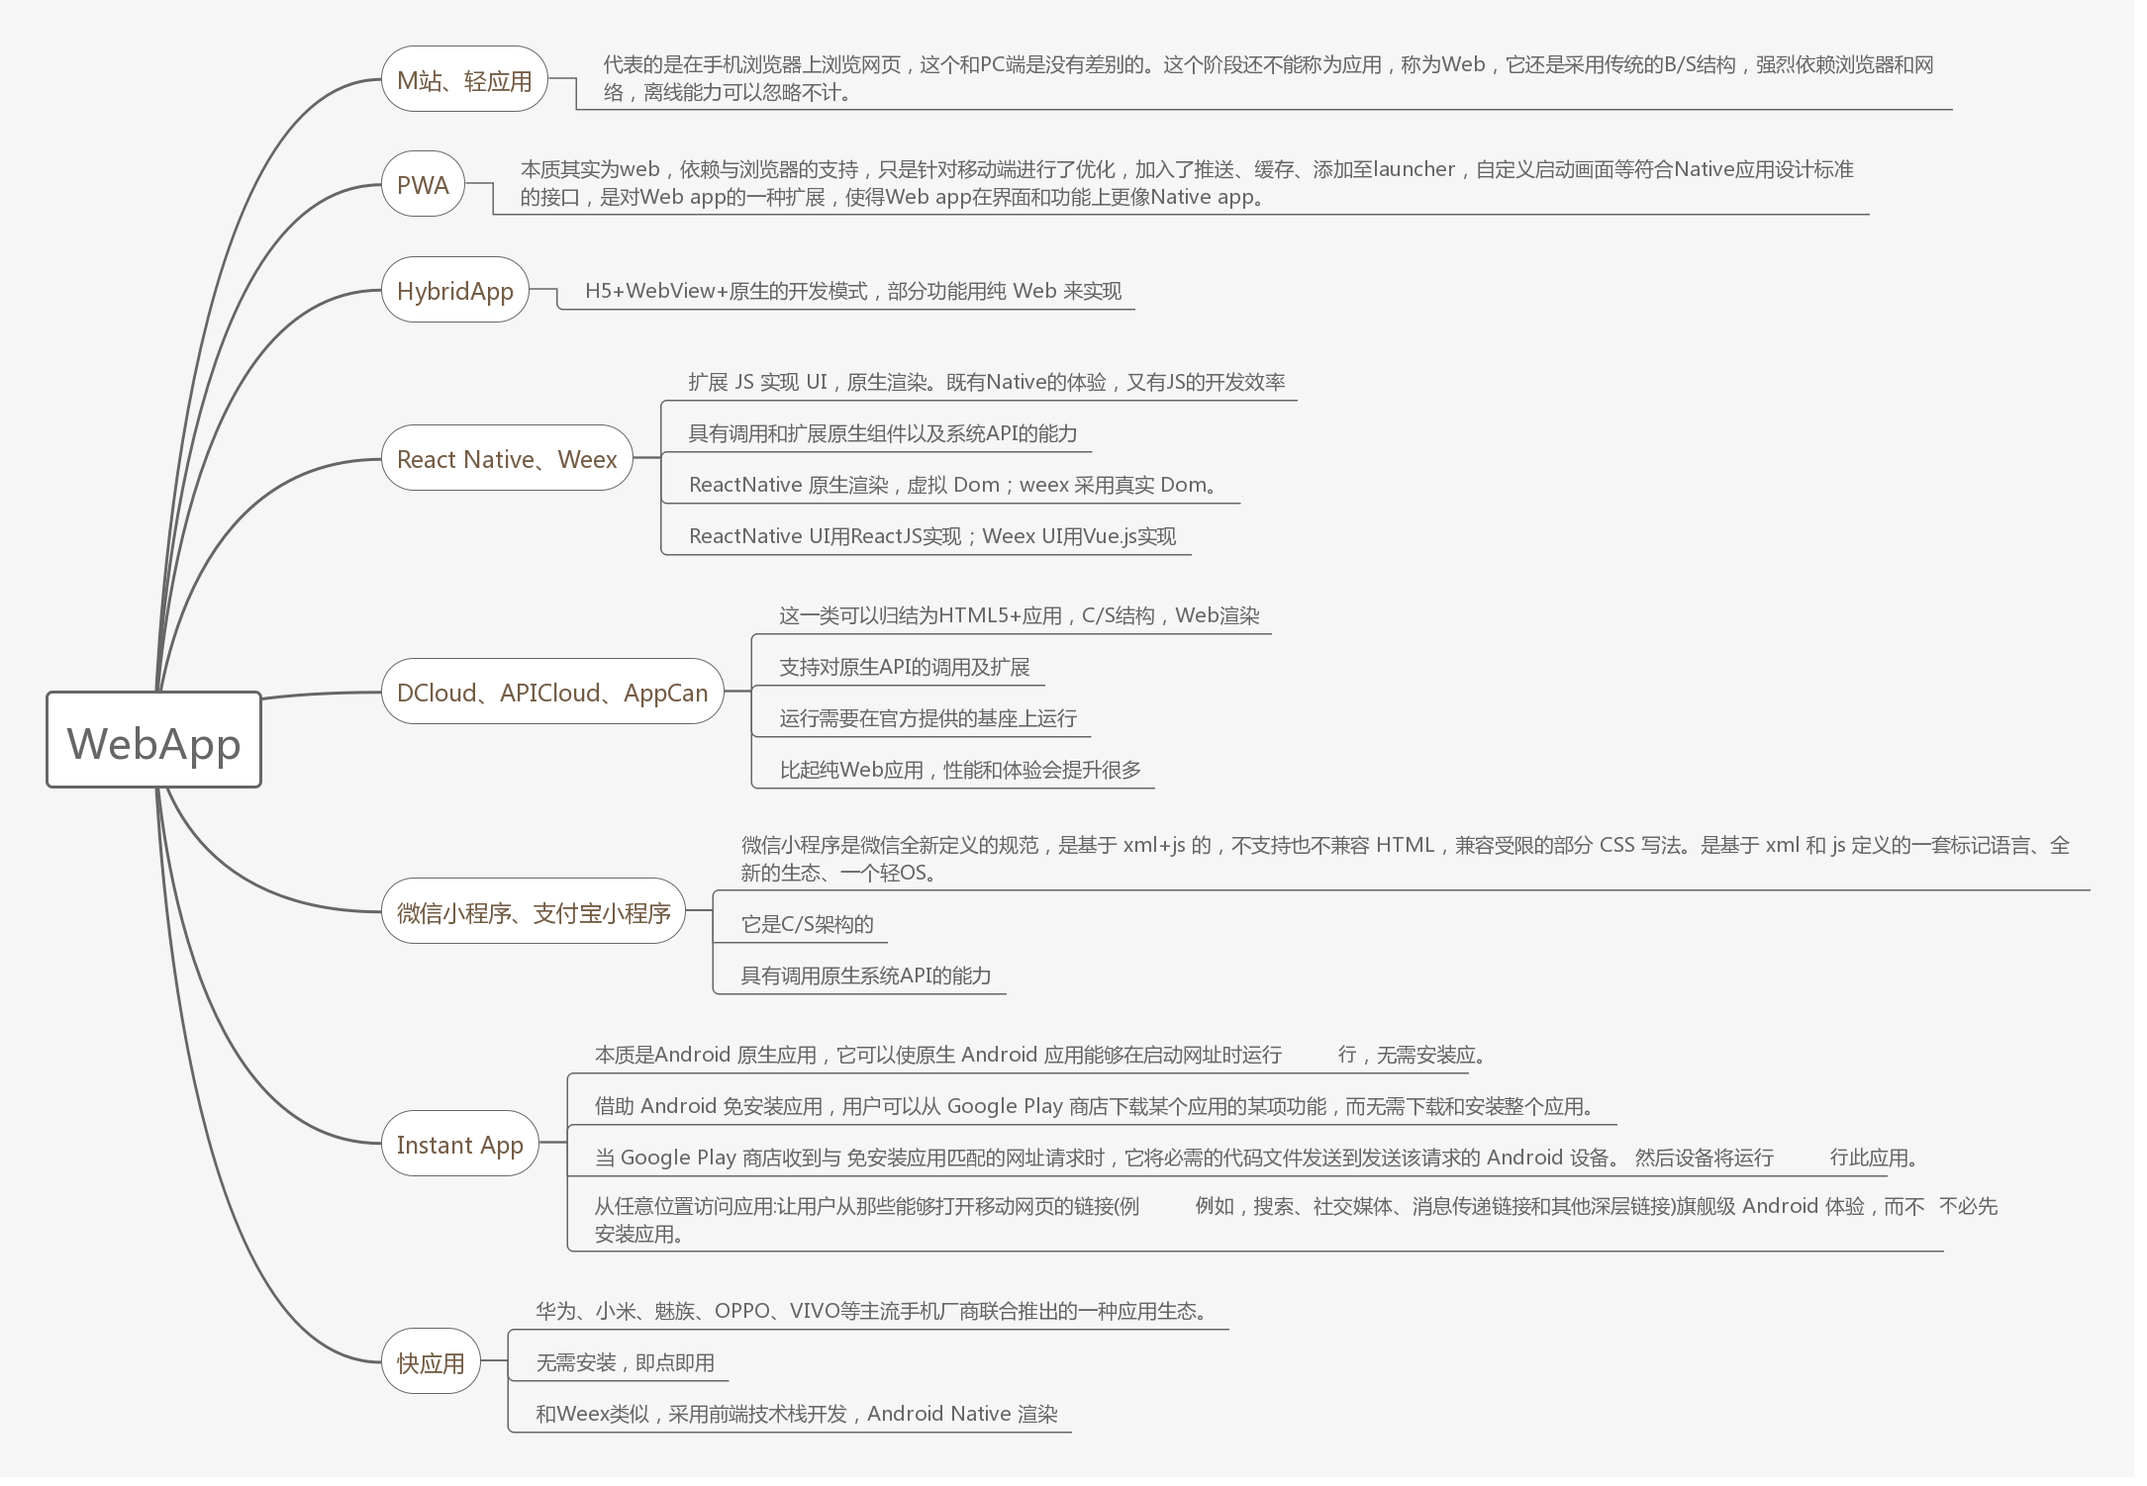
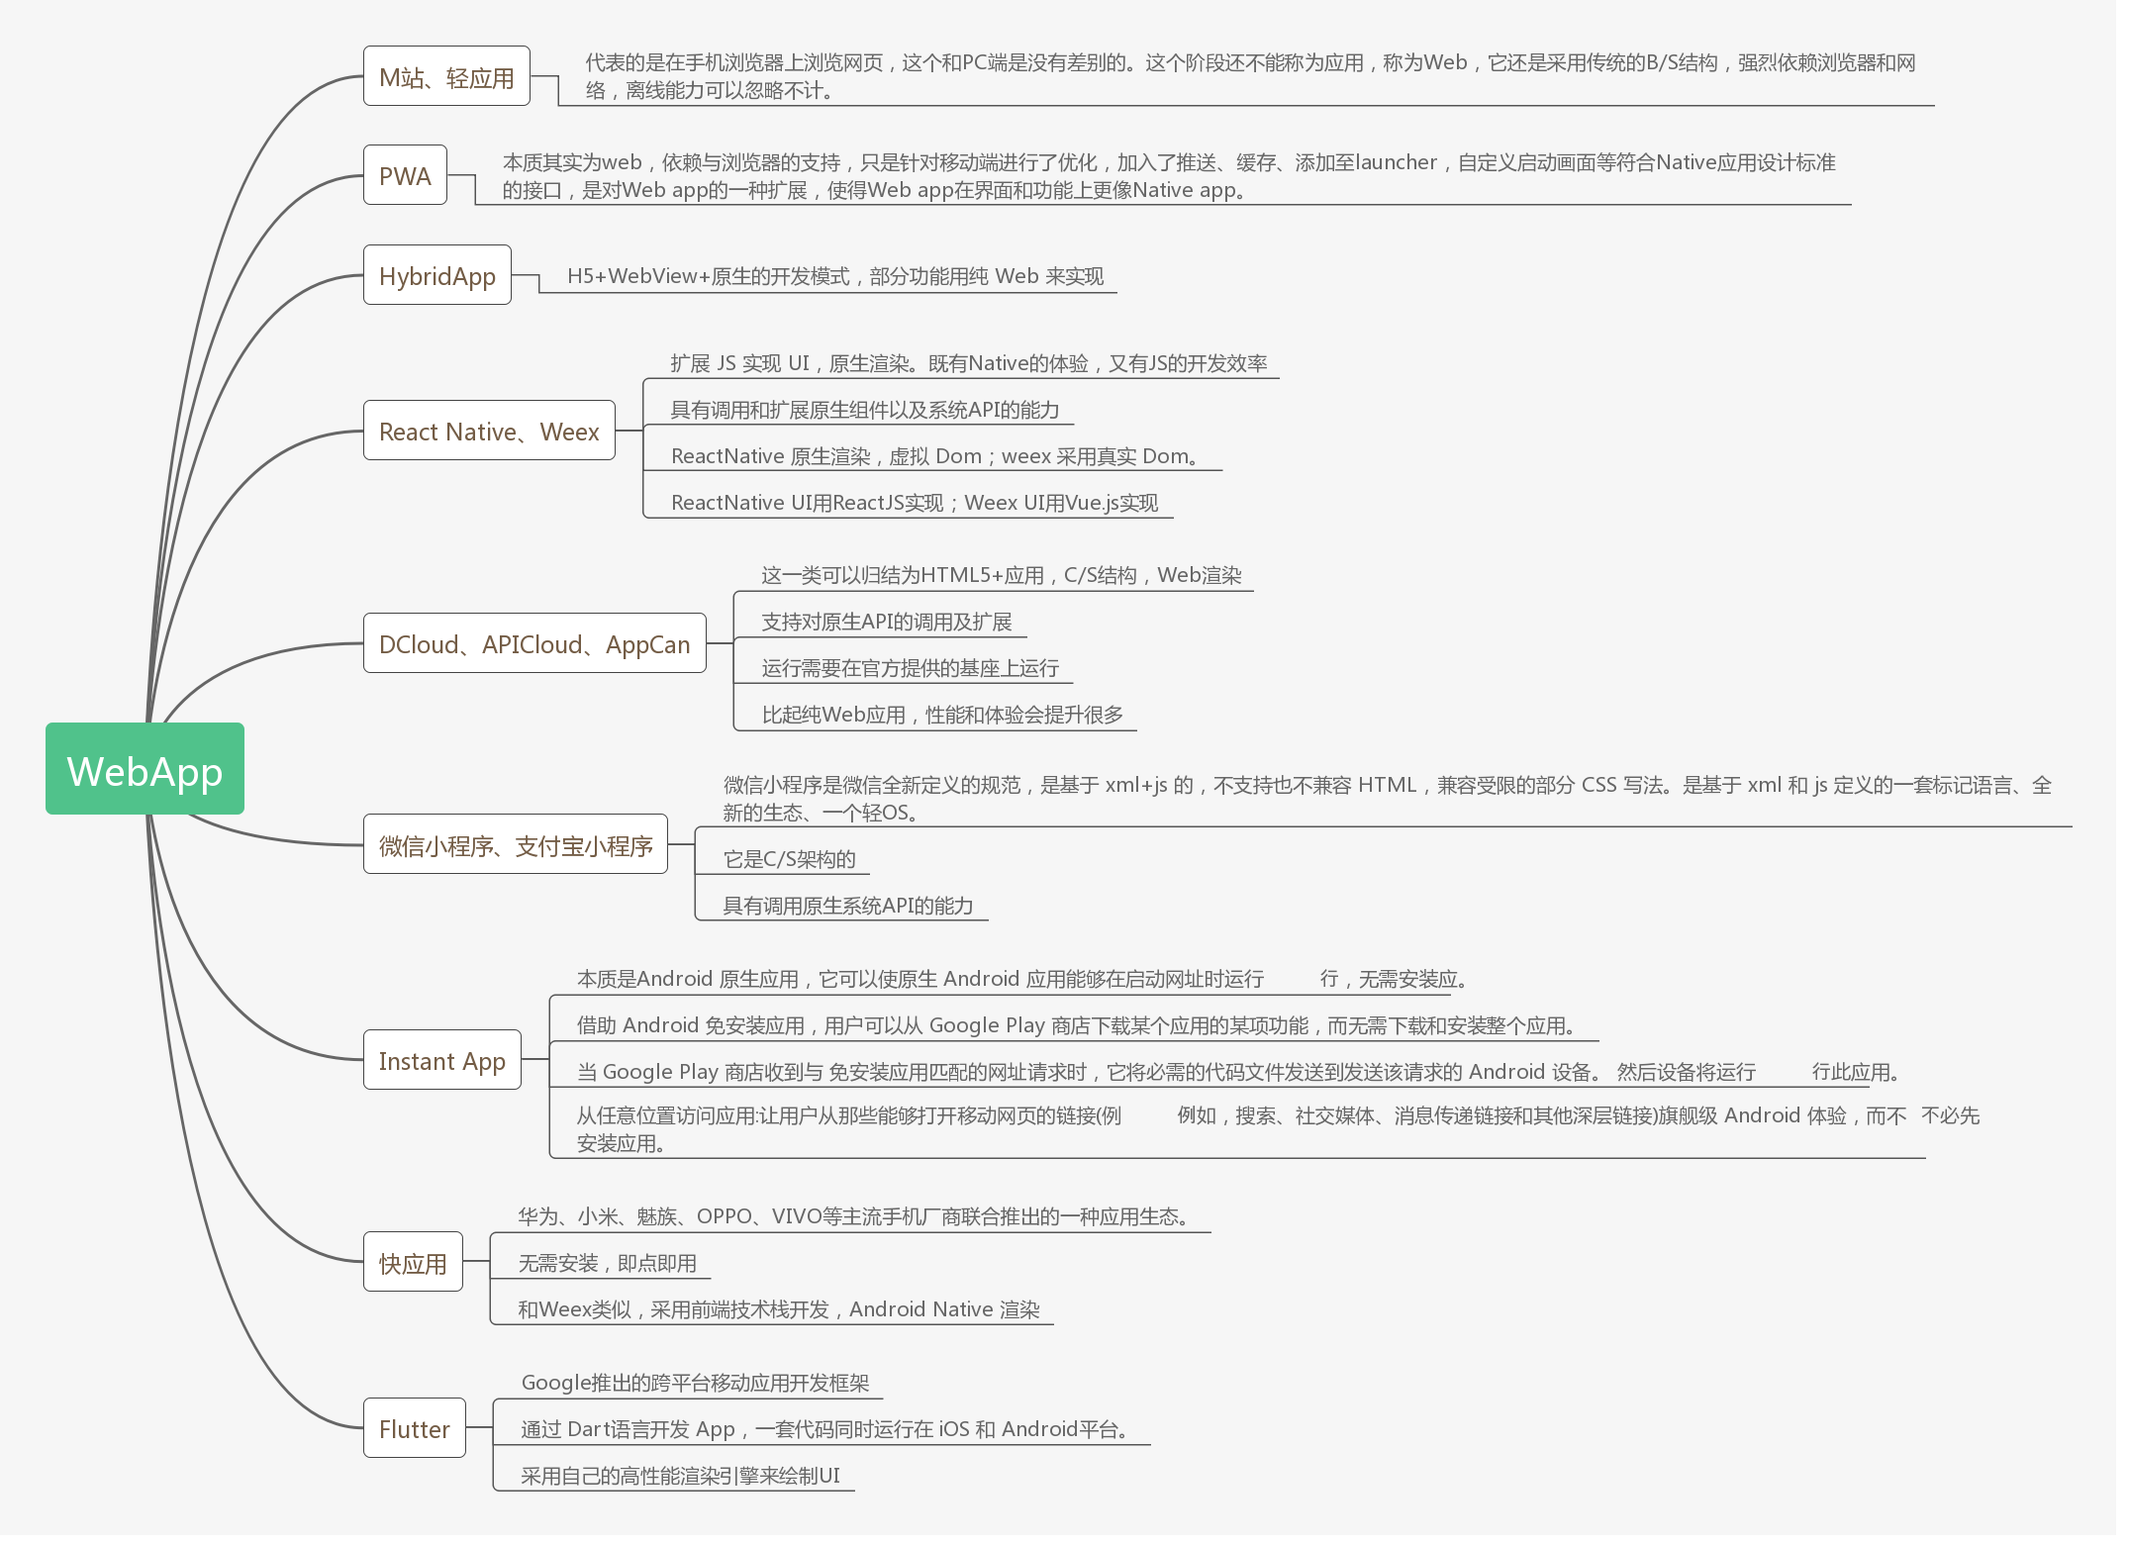
add blogs

diff --git a/source/_posts/javascript-basic-promise.md b/source/_posts/javascript-basic-promise.md
@@ -1,0 +1,238 @@
+---
+title: JavaScript 基础 -- Promise
+categories: JavaScript
+comments: true
+tags: [JavaScript]
+description: 介绍 Promise 的使用
+date: 2018-5-12 10:00:00
+---
+
+## 概述
+
+Promise 是从 ES6 开始提供的异步编程解决方案，在此之前需要使用回调函数和事件的方式来完成。Promise 比传统的回调函数和事件更合理和强大。
+
+## 特点
+
+ - Promise 对象一旦创建就会立即执行，不管有没有then函数来处理执行结果
+
+## 基本用法
+
+我们先来看一下 Promise 对象的创建方法：
+
+```
+      var promise = new Promise(function(resolve,reject){
+        if(sucess) {
+          resolve(value)
+        } else {
+          reject(error)
+        }
+      })
+```
+
+Promise构造函数接收一个函数作为参数，该函数有两个参数分别是resolve和reject，他们是两个函数，由Javascript引擎提供，不用自己部署。
+resolve方法的作用是在异步操作成功时调用，并将异步操作的结果作为参数传递到下游进行处理。
+reject方法的作用是在异步操作失败时调用，并将异步操作报出的错误作为参数传递到下游进行处理。
+Promise实例生成以后，可以用then方法分别指定resolved状态和rejected状态的回调函数。
+
+```
+      promise.then(function(value){
+        // do success
+      },function(error){
+        // do error
+      })
+```
+
+then方法可以接受两个回调函数作为参数，第一个回调函数是异步操作执行成功时调用，第二个回调函数是异步操作执行失败时调用。其中，第二个函数是可选的，不一定要提供，这两个函数都接受Promise对象传出的值作为参数。
+下面介绍一个简单的例子：
+
+```
+    testPromise() {
+      console.log("##start")
+      
+      new Promise((resolve, reject) => {
+        setTimeout(function() {
+          console.log('do something')
+          resolve({usetime:100,status:1})
+          //reject('time out')
+        },500)
+      }).then((value) => {
+          console.log('done, value='+JSON.stringify(value))
+        },(error) => {
+          console.log('reason='+error)
+      })
+      
+      console.log("##end")
+    }
+```
+
+resolve 还可以是一个 Promise 实例，在这种个情况下，两个 Promise 并行执行，后一个 Promise 的 resolve 方法将前一个 Promise 作为参数，也就是后一个的操作结果是前一个异步操作。
+
+```
+    testPromise() {
+      console.log("##start")
+
+      const promise1 =  new Promise((resolve, reject) => {
+        console.log('the first stage')
+        setTimeout(function() {
+          console.log('the first stage done')
+          resolve({usetime:100,status:1})
+          //reject("time out")
+        },1000)
+      })
+      const promise2 = new Promise((resolve,reject) => {
+        console.log('the second stage')
+        setTimeout(function() {
+          console.log('the second stage done')
+          resolve(promise1)
+        },500)
+      })
+
+      promise2.then((value) => {
+        console.log('done, value='+JSON.stringify(value))
+      },(error) => {
+        console.log('fail, error='+JSON.stringify(error))
+      })
+
+      console.log("##end")
+    }
+```
+
+注意，这时 promise1 的状态就会传递给 promise2，也就是说，promise1的状态决定了 promise2 的状态。如果 promise1 的状态是未执行完状态，那么promise2的回调函数就会等待 promise1 的状态改变；如果 promise1 的状态已经是 resolved或者 rejected，那么 promise2 的回调函数将会立刻执行。
+
+## then 方法
+
+语法：`Promise.prototype.then(onFulfilled, onRejected);`
+
+ - onFulfilled:当前实例变成fulfilled状态时，该参数作为回调函数被调用
+ - onRejected:当前实例变成reject状态时，该参数作为回调函数被调用。
+
+then 方法返回的是一个新的 Promise 对象，那么基于这样的特性，我们可以很方便的采用链式操作，也就是 then 方法后面再接着调用 then 方法，第一个回调函数完成以后，会将返回结果作为参数，传入第二个回调函数：
+
+```
+    testPromise() {
+      console.log("##start")
+
+      const promise1 =  new Promise((resolve, reject) => {
+        console.log('the first stage')
+        setTimeout(function() {
+          console.log('the first stage done')
+          resolve({usetime:100,status:1})
+        },1000)
+      })
+
+      promise1.then((value) => {
+        console.log('done 1, value='+JSON.stringify(value))
+        return "stage 2"
+      },(error) => {
+        console.log('fail, error='+JSON.stringify(error))
+      }).then((value) => {
+        console.log('done 2, value='+JSON.stringify(value))
+      })
+
+      console.log("##end")
+    }
+```
+
+有时我们有这样的使用场景：多个 Promise 异步操作配合使用，后一个需要等待前一个异步操作的执行结果。
+下面可以用下面方式实现：
+
+```
+    testPromise() {
+      console.log("##start")
+      
+      new Promise((resolve, reject) => {
+        setTimeout(function() {
+          console.log('the first stage')
+          resolve({usetime:100,status:1})
+        },500)
+      }).then((value) => {
+        console.log('the first stage done, value='+JSON.stringify(value))
+        return new Promise((resolve,reject) => {
+          setTimeout(function() {
+            console.log('the second stage')
+            resolve({usetime:200,status:1})
+          },500)
+        })
+      }).then((value) =>{
+        console.log('the second stage done, value='+JSON.stringify(value))
+      })
+      
+      console.log("##end")
+    }
+```
+
+这种方法的两个 Promise 是串行执行，后一个 Promise 的执行需要依赖前一个 Promise 的执行结果。后面一个 then 方法的value是第二个 Promise resolve 方法传递的结果。
+
+如果想实现两个返回 Promise 方法的链式操作的话，要这样写：
+
+```
+  testPromise() {
+    console.log("##11start")
+    var root = this;
+    this.promise1().then((value) => {
+      console.log('the first stage done')
+      return root.promise2();
+    }).then((value) =>{
+      console.log('the second stage done, value='+JSON.stringify(value))
+    })
+    console.log("##end")
+  },
+  
+  promise1() {
+    return new Promise((resolve, reject) => {
+      setTimeout(function () {
+        console.log('the first stage')
+        resolve({ usetime: 100, status: 1 })
+      }, 500)
+    })
+  },
+  promise2() {
+    return new Promise((resolve, reject) => {
+      setTimeout(function () {
+        console.log('the second stage')
+        resolve({ usetime: 200, status: 1 })
+      }, 500)
+    })
+  },
+```
+
+注意这里必须是把 promise2() 作为 then 回调方法的返回值。这里我踩过坑。刚开始接触 Promise 时用了下面的写法，把 promise2() 作为then方法的参数，这样是不对的。
+
+```
+  testPromise() {
+    console.log("##11start")
+    var root = this;
+    this.promise1().then(root.promise2())
+    console.log("##end")
+  },
+```
+
+## catch 方法
+
+catch 方法用于指定发生错误时的回调函数。它和 .then(null, rejection)或.then(undefined, rejection) 方法是等价的。
+
+```
+    testPromise() {
+      console.log("##start")
+      
+      new Promise((resolve, reject) => {
+        throw new Error('test error')
+        //reject("time out")
+      }).then((value) => {
+          console.log('done, value='+JSON.stringify(value))
+        }).catch((error) => {
+        console.log('catch ='+error)
+      })
+      
+      console.log("##end")
+    }
+```
+reject 方法的作用，等同于抛出错误，也可以被 catch 方法捕获。
+同样 throw 抛出的异常也可以被then方法指定的rejected状态的回调函数捕获，异常被拦截后，catch 方法就不会再收到异常。
+另外，then方法指定的回调函数，如果运行中抛出错误，也会被catch方法捕获。
+catch 方法和then方法指定的rejected状态的回调函数的区别就是
+Promise 对象的错误具有“冒泡”性质，会一直向后传递，直到被捕获为止。
+
+## 参考文献
+
+[阮一峰：Promise 对象](http://es6.ruanyifeng.com/#docs/promise)

diff --git a/source/_posts/javascript-basic-async.md b/source/_posts/javascript-basic-async.md
@@ -1,0 +1,97 @@
+---
+title: JavaScript 基础 -- async/await 关键字
+categories: JavaScript
+comments: true
+tags: [JavaScript]
+description: 介绍 async 函数的使用
+date: 2018-5-15 10:00:00
+---
+
+## 概述
+
+async 关键字用来标识一个异步函数，它是 ES7 引入的语法，用来代替异步编程使用的 Callback 与 Promise，可以使代码更加整洁优雅。
+
+## 基本用法
+
+声明 async 函数很简单，直接在方法前面加上 async 就行了。
+async 函数返回一个 Promise 对象，可以使用then方法添加回调函数。我们先来做个测试：
+
+```
+    test() {
+      this.testAsync().then((value) => {
+        console.log("value = "+value)
+      },(error) => {
+        console.log("error = "+error)
+      })
+    },
+    async testAsync() {
+      //throw new Error('test')
+      console.log("testAsync before return")
+      return "hello async"
+    }
+```
+
+这里大家可能有个疑问，这里返回个 Promise 有什么用呢？下面再来介绍一下 await。
+await 顾名思义就是等待的意思，等待后面的异步方法的执行结果。下面来通过例子来介绍。
+
+```
+    test() {
+      this.testAsync()
+      console.log("test end")
+    },
+    async testAsync() {
+      await this.testPromise()
+      console.log("testAsync end")
+    },
+    testPromise() {
+      return new Promise((resolve,reject) => {
+        setTimeout(function () {
+          console.log("testPromise done")
+          resolve('done')
+        },1000)
+      })
+    }
+```
+
+在上面的代码中，testPromise() 返回了一个 Promise对象，异步执行一些耗时操作，1000ms 后打印 testPromise done。
+testAsync() 方法中，`await this.testPromise()` 表示阻塞在这里等待testPromise的执行结果。注意，这里并不是说等待testPromise这个异步方法执行完毕返回，而是要等待异步的执行结果，也就是异步方法体执行完毕。
+看输出：
+
+```
+16:04:43.528  test end
+16:04:44.534  testPromise done
+16:04:44.536  testAsync end
+```
+
+await 关键字必须要在 async 函数中使用，否则会报错。
+上面我们介绍的是 await 后面跟一个返回 Promise对象的函数，那么可以加普通的函数吗？答案是可以的。
+
+```
+    test() {
+      this.testAsync()
+      console.log("test end")
+    },
+    async testAsync() {
+      await this.testTimeout()
+      console.log("testAsync end")
+    },
+    testTimeout() {
+      setTimeout(function () {
+          console.log("setTimeout done")
+      },1000)
+      console.log("testTimeout done")
+    }
+```
+
+```
+16:10:09.940 testTimeout done
+16:10:09.941 test end
+16:10:09.942 testAsync end
+16:10:10.946 setTimeout done
+```
+
+这种情况下 await 仅仅等待函数返回，而不是异步执行的结果。
+
+## 参考文献
+
+[阮一峰：async 函数](http://es6.ruanyifeng.com/#docs/async)

diff --git a/source/_posts/mobile-internet-webapp-vs-nativeapp.md b/source/_posts/mobile-internet-webapp-vs-nativeapp.md
@@ -9,7 +9,7 @@ date: 2017-8-5 10:00:00
 
 ## 概述
 
-自从Android系统在手机上应用开始，在移动端 Native App 和 Web App之间的战争似乎就没有停止过，Web App 及其各种变体向Native App 发起了无数次的冲锋，但Native App的地位仍然是岿然不动，甚至我们一提起移动互联网，就专指 Native App。这和 PC 端的景象完全不一样。随着轻应用、Hybrid App 、React Native、Weex已经微信小程序的出现，我们不得不再一次审视这个问题。
+自从Android系统在手机上应用开始，在移动端 Native App 和 Web App之间的战争似乎就没有停止过，Web App 及其各种变体向Native App 发起了无数次的冲锋，但Native App的地位仍然是岿然不动，甚至我们一提起移动互联网，就专指 Native App。这和 PC 端的景象完全不一样。随着轻应用、Hybrid App 、React Native、Weex、微信小程序以及Flutter的出现，我们不得不再一次审视这个问题。
 
 ## WebApp的特点
 
@@ -92,8 +92,8 @@ M站、轻应用 -> PWA -> HybridApp -> React Native、Weex
 
 [微信小程序，大多数人误解的8个问题 ](https://mp.weixin.qq.com/s?__biz=MjM5MDE0Mjc4MA==&mid=2650994254&idx=1&sn=b5a291309cb35e229bdc66052200a39f&chksm=bdbf0e1d8ac8870bd7a6a1b80cd6dbc906251c8b31ea5959419846b312b3b84b8048aa05cc3f&mpshare=1&scene=2&srcid=0928TYbsbovyAI1YJ7aXvfl9&from=timeline&isappinstalled=0&key=9289b6ec21f92a5928c971e763199c62958da88ae7805f55d3594ba99548c4cba2da3c66d7d31038140a81ad4b95694b&ascene=2&uin=MjgyMTI0MDAzMg==&devicetype=android-21&version=26031933&nettype=WIFI&pass_ticket=9nkAV8PvXod8+giTIP0YLiH5aU7EbFOiU8wA5OZrfdzQWSgzai7BiNlh3Ko9rg9y&wx_header=1)这篇文章写的很好，大家可以阅读一下。
 
-小程序和直达服务等形态应该是移动端App的未来，在移动互联网下半场你想打开一个应用，可能就不需要去应用商店下载个App，等下载完安装后使用，只需要打开微信就行了，找到相关应用就可以了。
-直达服务依据手机OS生态，可以做到与手机系统服务的紧密结合，小程序依据微信生态，但绝不是把微信作为一个入口或者是作为一个应用商店这么简单的事，它的野心是一个OS生态。
+小程序和快应用等形态应该是移动端App的未来，在移动互联网下半场你想打开一个应用，可能就不需要去应用商店下载个App，等下载完安装后使用，只需要打开微信就行了，找到相关应用就可以了。
+快应用依据手机OS生态，可以做到与手机系统服务的紧密结合，小程序依据微信生态，但绝不是把微信作为一个入口或者是作为一个应用商店这么简单的事，它的野心是一个OS生态。
 
 
 
